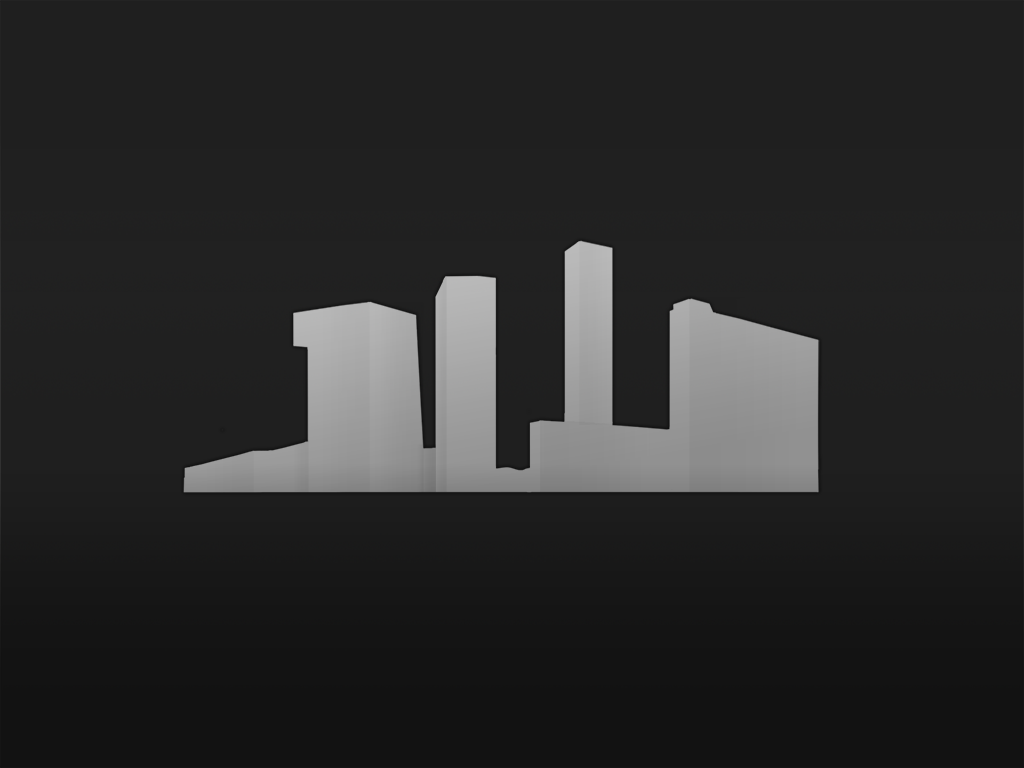
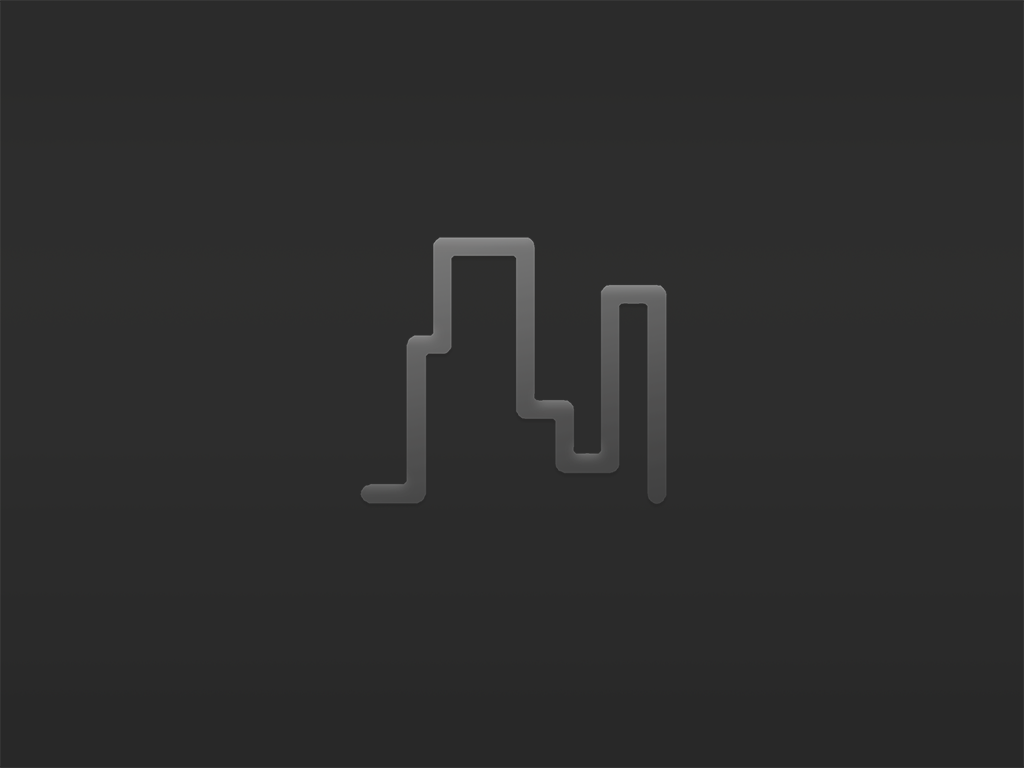
change default building image

Changed region(s): [[0.1562, 0.2812, 0.8125, 0.6562]]

diff --git a/Trunk/Src/BluesPad/Controller/Building/REMBuildingViewController.m b/Trunk/Src/BluesPad/Controller/Building/REMBuildingViewController.m
@@ -155,16 +155,16 @@ const static CGFloat buildingGap=20;
     
     self.defaultImage = REMIMG_DefaultBuilding;
     
-    /*
-    UIImage *blurImage=[REMImageHelper blurImage:self.defaultImage];
+//    
+//    UIImage *blurImage=[REMImageHelper blurImage:self.defaultImage];
+//    
+//    NSString *documents = [NSSearchPathForDirectoriesInDomains(NSDocumentDirectory, NSUserDomainMask, YES) objectAtIndex:0];
+//    
+//	NSString *blurImagePath = [NSString stringWithFormat:@"%@/blur.png",documents];
+//    
+//    NSData *data1 = [NSData dataWithData:UIImagePNGRepresentation(blurImage)];
+//    [data1 writeToFile:blurImagePath atomically:YES];
     
-    NSString *documents = [NSSearchPathForDirectoriesInDomains(NSDocumentDirectory, NSUserDomainMask, YES) objectAtIndex:0];
-    
-	NSString *blurImagePath = [NSString stringWithFormat:@"%@/blur.png",documents];
-    
-    NSData *data1 = [NSData dataWithData:UIImagePNGRepresentation(blurImage)];
-    [data1 writeToFile:blurImagePath atomically:YES];
-    */
         
     
 
